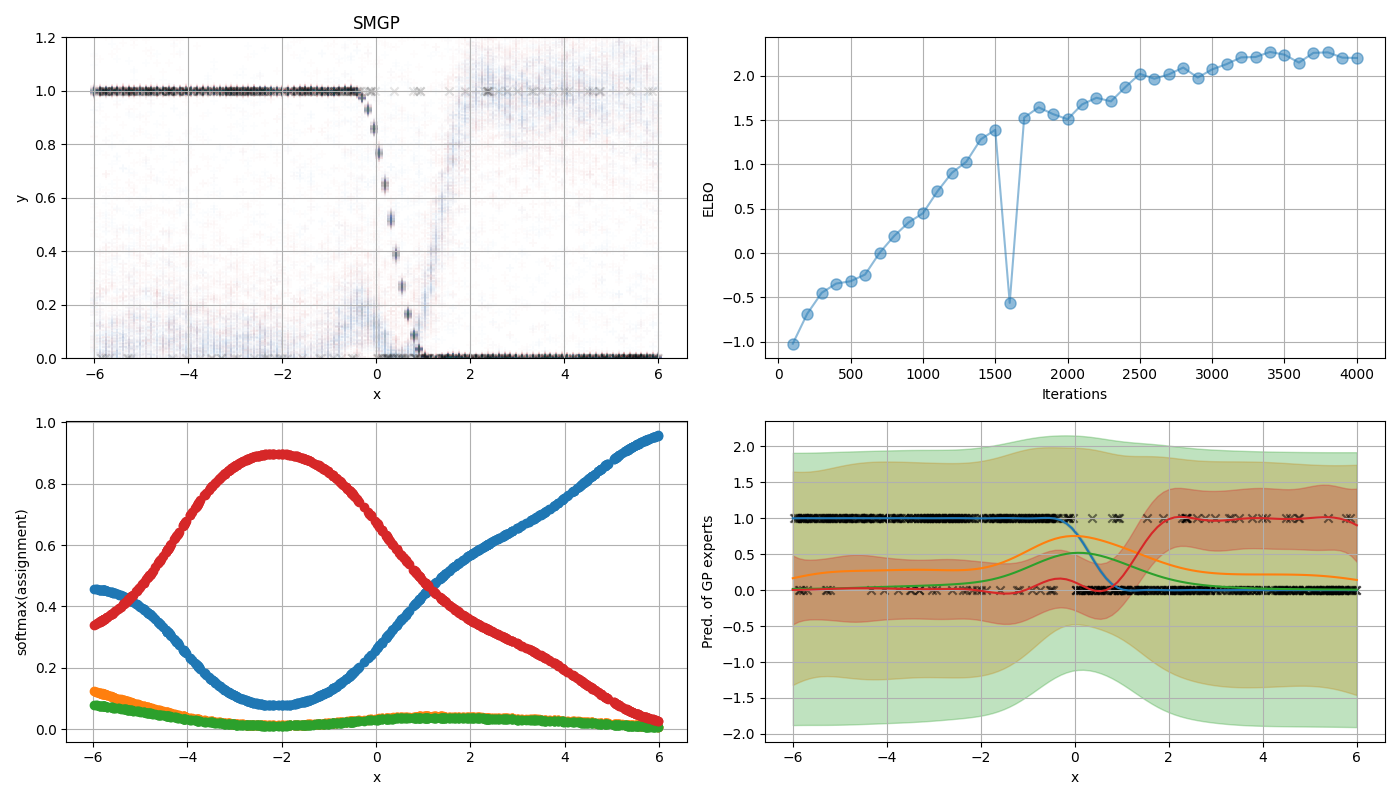
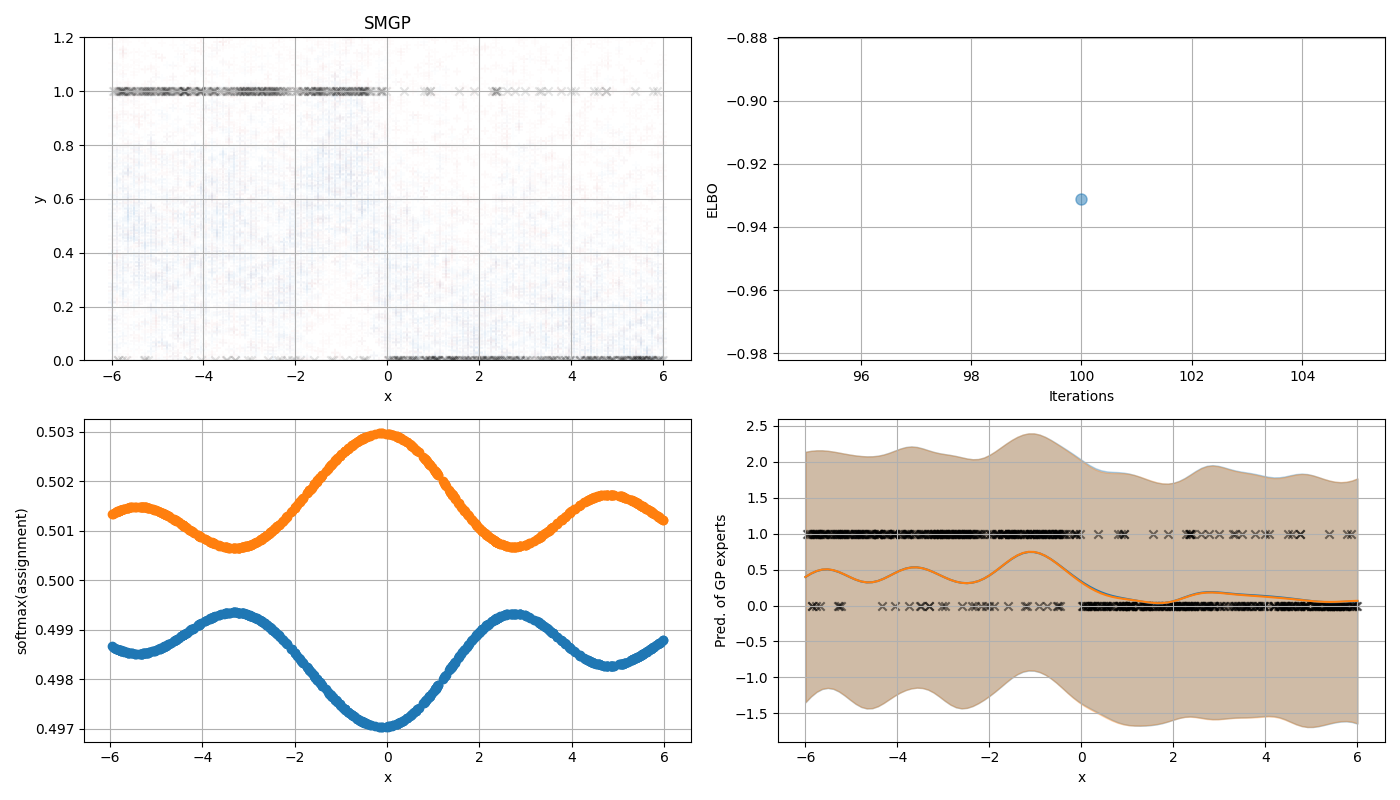
bernoulli start

diff --git a/demo_SMGP_toy.py b/demo_SMGP_toy.py
@@ -1,4 +1,5 @@
 import os
+
 os.environ["TF_CPP_MIN_LOG_LEVEL"] = '3'
 #os.environ["CUDA_VISIBLE_DEVICES"]="0"
 
@@ -7,7 +8,7 @@ tf.logging.set_verbosity(tf.logging.ERROR)
 import numpy as np
 from scipy.cluster.vq import kmeans2, kmeans
 
-from ModulatedGPs.likelihoods import Gaussian
+from ModulatedGPs.likelihoods import Gaussian, Bernoulli
 from ModulatedGPs.models import SMGP
 from ModulatedGPs.layers import SVGP_Layer
 from ModulatedGPs.kernels import RBF
@@ -31,6 +32,7 @@ tf.set_random_seed(seed)
 # Load data
 #***************************************
 func = 'categorical'
+two_d_input = False
 
 if func == 'hetero':
     f = lambda X: np.cos(5*X)*np.exp(-X/2)
@@ -81,22 +83,35 @@ elif func == 'dataAssoc':
 elif func == 'categorical':
     N, Ns, lambda_ = 600, 100, .1
 
-    Xtrain = np.random.uniform(low=-6., high=6., size=(N, 1))
+    xz_min = -6
+    xz_max = 6
+    Xtrain = np.random.uniform(low=xz_min, high=xz_max, size=(N, 1))
 
     Ytrain = np.where(Xtrain < 0, 1, 0)
 
-    # to add occassional outliers
+    # to add occasional outliers
     outlier_indices = np.random.choice(N, size=int(N * lambda_), replace=False)
     Ytrain[outlier_indices] = 1 - Ytrain[outlier_indices]
 
-    # convert Ytrain to integer type
-    Ytrain = Ytrain.astype(int)
+    Xtest = np.linspace(xz_min, xz_max, Ns).reshape(Ns, 1)
+elif func == 'categorical2d':
+    N, Ns, lambda_ = 600, 100, .1
 
-    # encode Ytrain as categorical labels
-    label_encoder = LabelEncoder()
-    Ytrain = label_encoder.fit_transform(Ytrain.ravel()).reshape(-1, 1)
+    xz_min = [-6, -6]
+    xz_max = [6, 6]
+    Xtrain = np.random.uniform(low=xz_min, high=xz_max, size=(N, 2))
 
-    Xtest = np.linspace(-6, 6, Ns)[:, None]
+    Ytrain = np.where(Xtrain < [0, 0], 1, 0)
+
+    # to add occasional outliers
+    outlier_indices = np.random.choice(N, size=int(N * lambda_), replace=False)
+    Ytrain[outlier_indices] = 1 - Ytrain[outlier_indices]
+
+    Ytrain = Ytrain[:, 0:1]
+
+    Xtest = np.linspace(xz_min, xz_max, Ns)
+
+    two_d_input = True
 elif func == 'multiModal':
     N, Ns = 3000, 500
 
@@ -130,10 +145,10 @@ elif func == 'multiModal':
 #***************************************
 # Model configuration
 #***************************************
-num_iter            = 5000             # Optimization iterations
+num_iter            = 100             # Optimization iterations
 # You want lr optimised so ELBO is steady line, but not taking forever
 lr                  = 0.005         # Learning rate for Adam opt
-num_minibatch       = 500                # Batch size for stochastic opt
+num_minibatch       = N                # Batch size for stochastic opt
 num_samples         = 25               # Number of MC samples
 num_predict_samples = 100              # Number of prediction samples
 num_data            = Xtrain.shape[0]  # Training size
@@ -141,7 +156,6 @@ dimX                = Xtrain.shape[1]  # Input dimensions
 dimY                = 1                # Output dimensions
 num_ind             = 25               # Inducing size for f
 
-# TODO this might need to be different for numerical vs categorical output?
 X_placeholder = tf.placeholder(dtype = float_type,shape=[None, dimX])
 Y_placeholder = tf.placeholder(dtype = float_type,shape=[None, dimY])
 # X_placeholder = tf.placeholder(dtype = float_type,shape=[dimX])
@@ -154,7 +168,7 @@ iterator = tf.data.Iterator.from_string_handle(handle, train_dataset.output_type
 X,Y = iterator.get_next()
 
 m_GP = 'SMGP'
-K = 3
+K = 2
 
 # kernel and inducing points initialization
 class KERNEL:
@@ -180,7 +194,7 @@ pred_layer   = SVGP_Layer(kern=pred_kernel, Z=Z, num_inducing=num_ind, num_outpu
 assign_layer = SVGP_Layer(kern=assign_kernel, Z=Z_assign, num_inducing=num_ind, num_outputs=K)
     
 # model definition
-lik = Gaussian(D=K)
+lik = Bernoulli()
 model = SMGP(likelihood=lik, pred_layer=pred_layer, assign_layer=assign_layer, 
             K=K, num_samples=num_samples, num_data=num_data)
 
@@ -235,57 +249,109 @@ mu_avg, fmu_avg = np.mean(samples_y, 0), np.mean(samples_f, 0)
 # samples_y_stack = np.reshape(samples_y, (num_predict_samples*Xtest_norm.shape[0],-1))
 # samples_f_stack = np.reshape(samples_f, (num_predict_samples*Xtest_norm.shape[0],-1))
 
-# `samples_y` has a size of 200, 50, 1 as 200 predicition points, 50 inducing points, and output dims 1.
-# so they then need to be reshaped to be a series of the outputs.
-
 samples_y_stack = np.reshape(samples_y, (num_predict_samples*Xtest.shape[0],-1))
 samples_f_stack = np.reshape(samples_f, (num_predict_samples*Xtest.shape[0],-1))
 # samples = samples * Ystd + Ymean
 
-f, ax = plt.subplots(2, 2, figsize=(14,8))
 # Xt_tiled = np.tile(Xtest_norm, [num_predict_samples, 1])
 Xt_tiled = np.tile(Xtest, [num_predict_samples, 1])
-ax[0,0].scatter(Xt_tiled.flatten(), samples_y_stack.flatten(), marker='+', alpha=0.01, color=mcolors.TABLEAU_COLORS['tab:red'])
-ax[0,0].scatter(Xt_tiled.flatten(), samples_f_stack.flatten(), marker='+', alpha=0.01, color=mcolors.TABLEAU_COLORS['tab:blue'])
-# ax[0,0].scatter(Xtrain_norm, Ytrain_norm, marker='x', color='black', alpha=0.1)
-ax[0,0].scatter(Xtrain, Ytrain, marker='x', color='black', alpha=0.1)
-ax[0,0].set_title(m_GP)
-ax[0,0].set_xlabel('x') 
-ax[0,0].set_ylabel('y')
-# ax[0,0].set_ylim(1.2*min(Ytrain_norm), 1.2*max(Ytrain_norm))
-ax[0,0].set_ylim(1.2*min(Ytrain), 1.2*max(Ytrain))
-ax[0,0].grid()
 
-ax[0,1].plot(iters, elbos, 'o-', ms=8, alpha=0.5)
-ax[0,1].set_xlabel('Iterations')
-ax[0,1].set_ylabel('ELBO')
-ax[0,1].grid()
+if not two_d_input:
+    f, ax = plt.subplots(2, 2, figsize=(14,8))
 
-# assign_ = sess.run(assign,{X:Xtrain_norm})
-assign_ = sess.run(assign,{X:Xtrain})
-# ax[1,0].plot(Xtrain_norm, assign_, 'o')
-ax[1,0].plot(Xtrain, assign_, 'o')
-ax[1,0].set_xlabel('x')
-ax[1,0].set_ylabel('softmax(assignment)')
-ax[1,0].grid()
+    ax[0,0].scatter(Xt_tiled.flatten(), samples_y_stack.flatten(), marker='+', alpha=0.01, color=mcolors.TABLEAU_COLORS['tab:red'])
+    ax[0,0].scatter(Xt_tiled.flatten(), samples_f_stack.flatten(), marker='+', alpha=0.01, color=mcolors.TABLEAU_COLORS['tab:blue'])
+    # ax[0,0].scatter(Xtrain_norm, Ytrain_norm, marker='x', color='black', alpha=0.1)
+    ax[0,0].scatter(Xtrain, Ytrain, marker='x', color='black', alpha=0.1)
+    ax[0,0].set_title(m_GP)
+    ax[0,0].set_xlabel('x')
+    ax[0,0].set_ylabel('y')
+    # ax[0,0].set_ylim(1.2*min(Ytrain_norm), 1.2*max(Ytrain_norm))
+    ax[0,0].set_ylim(1.2*min(Ytrain), 1.2*max(Ytrain))
+    ax[0,0].grid()
 
-# fmean_, fvar_ = np.mean(sess.run(fmean,{X:Xtest_norm}),0), np.mean(sess.run(fvar,{X:Xtest_norm}),0)
-fmean_, fvar_ = np.mean(sess.run(fmean,{X:Xtest}),0), np.mean(sess.run(fvar,{X:Xtest}),0)
-lb, ub = (fmean_ - 2*fvar_**0.5), (fmean_ + 2*fvar_**0.5)
-I = np.argmax(assign_, 1)
-for i in range(K):
-    # ax[1,1].plot(Xtest_norm.flatten(), fmean_[:,i], '-', alpha=1., color=colors[i])
-    # ax[1,1].fill_between(Xtest_norm.flatten(), lb[:,i], ub[:,i], alpha=0.3, color=colors[i])
-    ax[1, 1].plot(Xtest.flatten(), fmean_[:, i], '-', alpha=1., color=colors[i])
-    ax[1, 1].fill_between(Xtest.flatten(), lb[:, i], ub[:, i], alpha=0.3, color=colors[i])
-# ax[1,1].scatter(Xtrain_norm, Ytrain_norm, marker='x', color='black', alpha=0.5)
-ax[1,1].scatter(Xtrain, Ytrain, marker='x', color='black', alpha=0.5)
-ax[1,1].set_xlabel('x')
-ax[1,1].set_ylabel('Pred. of GP experts')
-ax[1,1].grid()
+    ax[0,1].plot(iters, elbos, 'o-', ms=8, alpha=0.5)
+    ax[0,1].set_xlabel('Iterations')
+    ax[0,1].set_ylabel('ELBO')
+    ax[0,1].grid()
 
-plt.tight_layout()
-plt.savefig('figs/'+m_GP+'_'+func+'_toy.png')
-plt.show()
+    # assign_ = sess.run(assign,{X:Xtrain_norm})
+    assign_ = sess.run(assign,{X:Xtrain})
+    # ax[1,0].plot(Xtrain_norm, assign_, 'o')
+    ax[1,0].plot(Xtrain, assign_, 'o')
+    ax[1,0].set_xlabel('x')
+    ax[1,0].set_ylabel('softmax(assignment)')
+    ax[1,0].grid()
 
+    # fmean_, fvar_ = np.mean(sess.run(fmean,{X:Xtest_norm}),0), np.mean(sess.run(fvar,{X:Xtest_norm}),0)
+    fmean_, fvar_ = np.mean(sess.run(fmean,{X:Xtest}),0), np.mean(sess.run(fvar,{X:Xtest}),0)
+    lb, ub = (fmean_ - 2*fvar_**0.5), (fmean_ + 2*fvar_**0.5)
+    I = np.argmax(assign_, 1)
+    for i in range(K):
+        # ax[1,1].plot(Xtest_norm.flatten(), fmean_[:,i], '-', alpha=1., color=colors[i])
+        # ax[1,1].fill_between(Xtest_norm.flatten(), lb[:,i], ub[:,i], alpha=0.3, color=colors[i])
+        ax[1, 1].plot(Xtest.flatten(), fmean_[:, i], '-', alpha=1., color=colors[i])
+        ax[1, 1].fill_between(Xtest.flatten(), lb[:, i], ub[:, i], alpha=0.3, color=colors[i])
+    # ax[1,1].scatter(Xtrain_norm, Ytrain_norm, marker='x', color='black', alpha=0.5)
+    ax[1,1].scatter(Xtrain, Ytrain, marker='x', color='black', alpha=0.5)
+    ax[1,1].set_xlabel('x')
+    ax[1,1].set_ylabel('Pred. of GP experts')
+    ax[1,1].grid()
 
+    plt.tight_layout()
+    plt.savefig('figs/'+m_GP+'_'+func+'_toy.png')
+    plt.show()
+else:
+    fig = plt.figure(figsize=(14, 8))
+    ax = []
+    for i in range(1, 5):
+        if i == 2:
+            ax.append(fig.add_subplot(2, 2, i))
+            continue
+        ax.append(fig.add_subplot(2, 2, i, projection='3d'))
+
+    ax[0].scatter(Xt_tiled[:, 0:1], Xt_tiled[:, 1:2], samples_y_stack, marker='+', alpha=0.01, color=mcolors.TABLEAU_COLORS['tab:red'])
+    ax[0].scatter(Xt_tiled[:, 0:1], Xt_tiled[:, 1:2], samples_f_stack, marker='+', alpha=0.01, color=mcolors.TABLEAU_COLORS['tab:blue'])
+    # ax[0,0].scatter(Xtrain_norm, Ytrain_norm, marker='x', color='black', alpha=0.1)
+    ax[0].scatter(Xtrain[:, 0:1], Xtrain[:, 1:2], Ytrain, marker='x', color='black', alpha=0.1)
+    ax[0].set_title(m_GP)
+    ax[0].set_xlabel('x')
+    ax[0].set_ylabel('y')
+    ax[0].set_zlabel('z')
+    # ax[0,0].set_ylim(1.2*min(Ytrain_norm), 1.2*max(Ytrain_norm))
+    ax[0].set_zlim(1.2*min(Ytrain), 1.2*max(Ytrain))
+    ax[0].grid()
+
+    ax[1].plot(iters, elbos, 'o-', ms=8, alpha=0.5)
+    ax[1].set_xlabel('Iterations')
+    ax[1].set_ylabel('ELBO')
+    ax[1].grid()
+
+    # assign_ = sess.run(assign,{X:Xtrain_norm})
+    assign_ = sess.run(assign,{X:Xtrain})
+    # ax[1,0].plot(Xtrain_norm, assign_, 'o')
+    # ax[2].plot(Xtrain[:, 0:1], Xtrain[:, 1:2], assign_, 'o')
+    # ax[2].set_xlabel('x')
+    # ax[2].set_ylabel('y')
+    # ax[2].set_zlabel('softmax(assignment)')
+    # ax[2].grid()
+
+    # fmean_, fvar_ = np.mean(sess.run(fmean,{X:Xtest_norm}),0), np.mean(sess.run(fvar,{X:Xtest_norm}),0)
+    fmean_, fvar_ = np.mean(sess.run(fmean,{X:Xtest}),0), np.mean(sess.run(fvar,{X:Xtest}),0)
+    lb, ub = (fmean_ - 2*fvar_**0.5), (fmean_ + 2*fvar_**0.5)
+    I = np.argmax(assign_, 1)
+    for i in range(K):
+        # ax[1,1].plot(Xtest_norm.flatten(), fmean_[:,i], '-', alpha=1., color=colors[i])
+        # ax[1,1].fill_between(Xtest_norm.flatten(), lb[:,i], ub[:,i], alpha=0.3, color=colors[i])
+        ax[3].plot(Xtest[:, 0:1], Xtest[:, 1:2], fmean_[:, i:i+1], '-', alpha=1., color=colors[i])
+        ax[3].fill_between(Xtest[:, 0:1], Xtest[:, 1:2], lb[:, i:i+1], ub[:, i:i+1], alpha=0.3, color=colors[i])
+    # ax[1,1].scatter(Xtrain_norm, Ytrain_norm, marker='x', color='black', alpha=0.5)
+    ax[3].scatter(Xtrain[:, 0:1], Xtrain[:, 1:2], Ytrain, marker='x', color='black', alpha=0.5)
+    ax[3].set_xlabel('x')
+    ax[3].set_ylabel('y')
+    ax[3].set_zlabel('Pred. of GP experts')
+    ax[3].grid()
+
+    plt.tight_layout()
+    plt.savefig('figs/'+m_GP+'_'+func+'_toy.png')
+    plt.show()

diff --git a/ModulatedGPs/likelihoods.py b/ModulatedGPs/likelihoods.py
@@ -121,8 +121,37 @@ class Gaussian(Likelihood):
         return -0.5 * np.log(2 * np.pi) - 0.5 * tf.log(self.variance) - 0.5 * (tf.square(Y - Fmu) + Fvar) / self.variance
 
 
-# class Bernoulli(Likelihood):
+def inv_probit(x):
+    jitter = 1e-3  # ensures output is strictly between 0 and 1
+    return 0.5 * (1.0 + tf.erf(x / np.sqrt(2.0))) * (1 - 2 * jitter) + jitter
 
+
+class Bernoulli(Likelihood):
+    def __init__(self, invlink=inv_probit, **kwargs):
+        super().__init__(**kwargs)
+        self.invlink = invlink
+
+    def logp(self, F, Y):
+        return logdensities.bernoulli(Y, self.invlink(F))
+
+    def predict_mean_and_var(self, Fmu, Fvar):
+        if self.invlink is inv_probit:
+            p = inv_probit(Fmu / tf.sqrt(1 + Fvar))
+            return p, p - tf.square(p)
+        else:
+            # for other invlink, use quadrature
+            return super().predict_mean_and_var(Fmu, Fvar)
+
+    def predict_density(self, Fmu, Fvar, Y):
+        p = self.predict_mean_and_var(Fmu, Fvar)[0]
+        return logdensities.bernoulli(Y, p)
+
+    def conditional_mean(self, F):
+        return self.invlink(F)
+
+    def conditional_variance(self, F):
+        p = self.conditional_mean(F)
+        return p - tf.square(p)
 
 class HeteroGaussian(Likelihood):
     def __init__(self, **kwargs):
